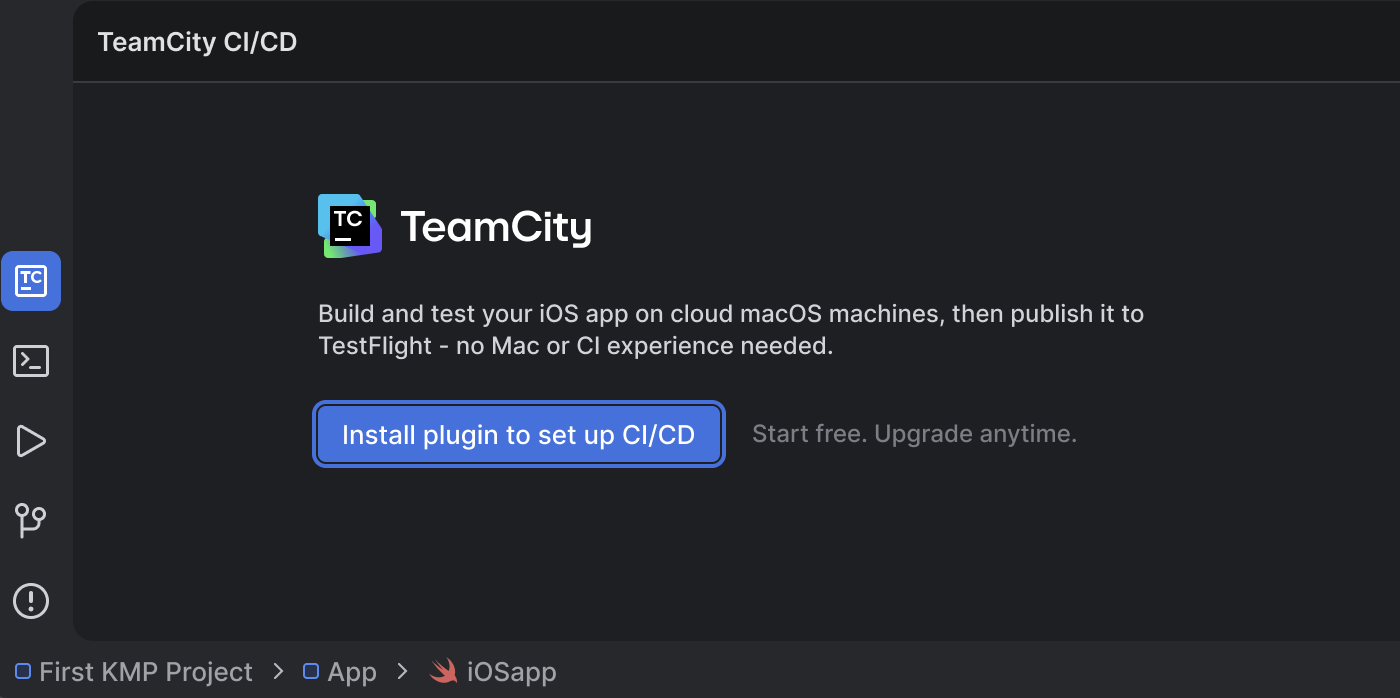
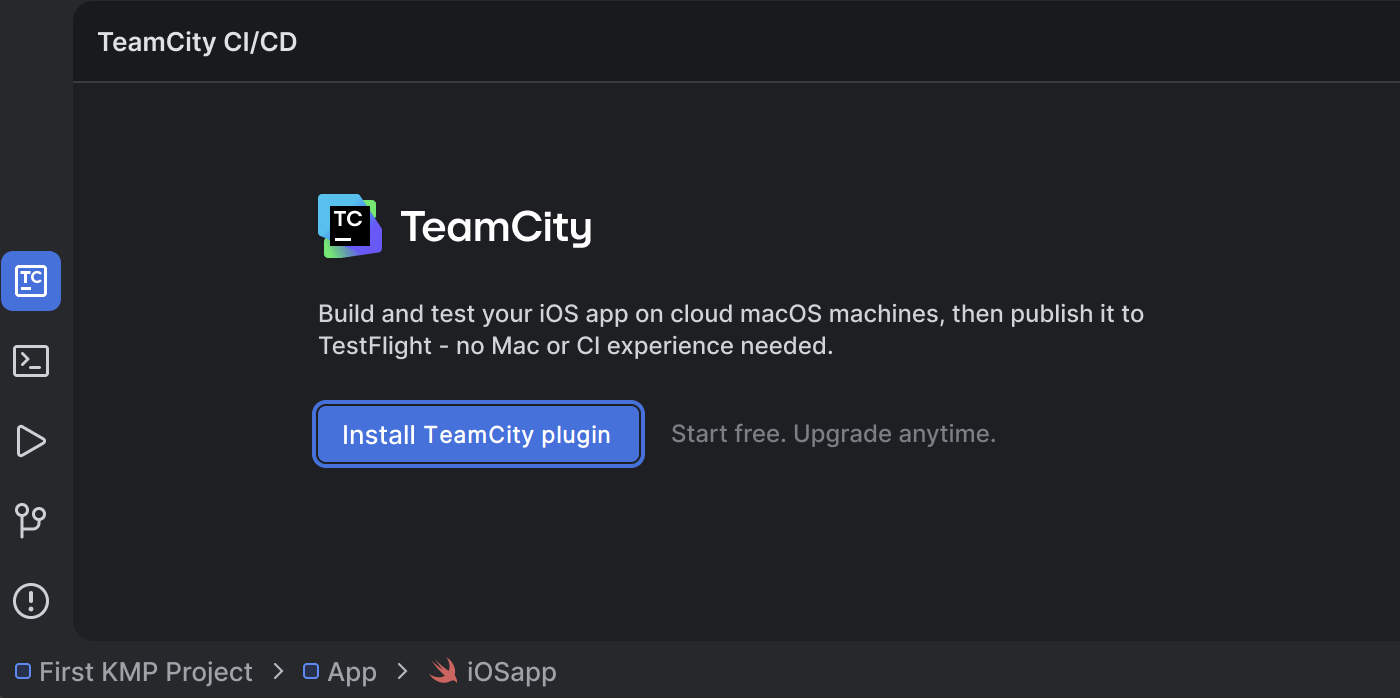
review 2

Changed region(s): [[0.3071, 0.5716, 0.7679, 0.692]]

diff --git a/topics/ios-ci-cd-teamcity.md b/topics/ios-ci-cd-teamcity.md
@@ -3,7 +3,7 @@
 In this tutorial, you'll learn how to set up TeamCity Cloud for a Kotlin Multiplatform project with an iOS target.
 You'll create a CI pipeline that builds and tests your iOS app on a hosted macOS agent,
 configure Apple signing credentials, upload a build to TestFlight, and automate the process to start a new build
-on every push to your repository.
+on every push to your GitHub repository.
 
 The [Kotlin Multiplatform IDE plugin](https://plugins.jetbrains.com/plugin/14936-kotlin-multiplatform) walks you through
 the entire setup directly from your IDE — 
@@ -27,7 +27,7 @@ With this workflow, TeamCity Cloud:
    The plugin generates the files required to build and test your iOS app on a hosted macOS agent.
    These files are added to your local project but are not committed.
 3. If the TeamCity plugin is not installed, the IDE prompts you to install it.
-   Click **Install plugin to set up CI/CD**, then return to the setup flow.
+   Click **Install TeamCity plugin**, then return to the setup flow.
    ![Install plugin to set up CI/CD](ios-pipeline-install-plugin.png){width=700 style="block"}
 
 <!-- TODO: Add link to marketplace
@@ -45,8 +45,7 @@ With this workflow, TeamCity Cloud:
 TeamCity requires a Cloud workspace to run builds on hosted macOS agents.
 
 1. Review and accept the TeamCity Cloud Terms of Service.
-2. Click **Create free account** to create a TeamCity Cloud account,
-   or click **I already have an account** to connect an existing account.
+2. Click **Create free account** to create a TeamCity Cloud account.
 
     > TeamCity Cloud is hosted by JetBrains and provides a free starting tier.
     > The free tier includes a monthly allowance of build minutes and storage,
@@ -129,14 +128,14 @@ After you add the credentials, the pipeline includes signing and deployment step
 
 ### Connect the repository
 
-To automate this process, authorize TeamCity to monitor your GitHub repository and trigger new builds on every push.
+To automate this process, connect your GitHub repository to TeamCity so that every push triggers a new build.
 
 1. After the first deployment pipeline finishes successfully, click **Connect repository** in the IDE.
-2. In the browser, click **Authorize JetBrains** to grant access to your repository.
-3. Select the repository and branch that TeamCity should monitor.
-4. Commit and push the generated pipeline configuration files.
+   TeamCity opens in the browser and confirms that the repository is authorized.
+   It detects your repository and branch automatically and attaches them to the pipeline.
+2. Return to the IDE, then commit and push the generated pipeline configuration files.
 
-TeamCity can now trigger the pipeline when changes are pushed to the configured branch.
+TeamCity now triggers the pipeline whenever you push changes to the configured branch.
 
 ### Verify the pipeline
 
